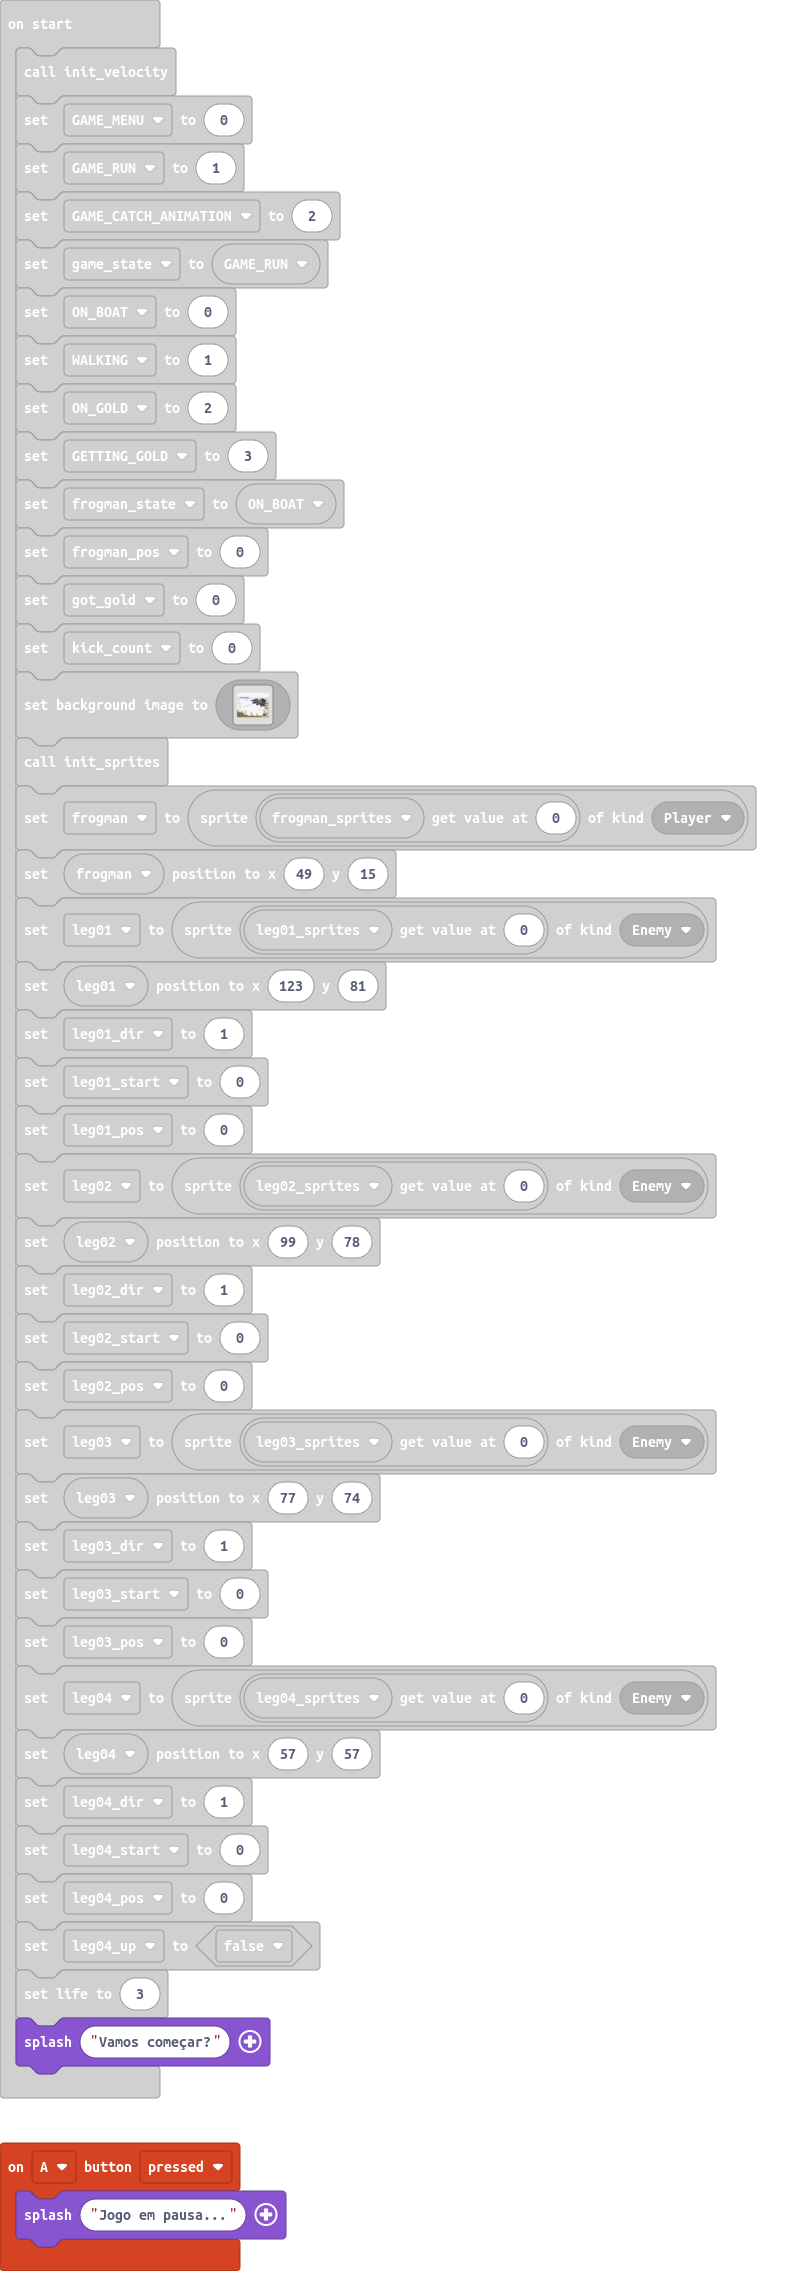
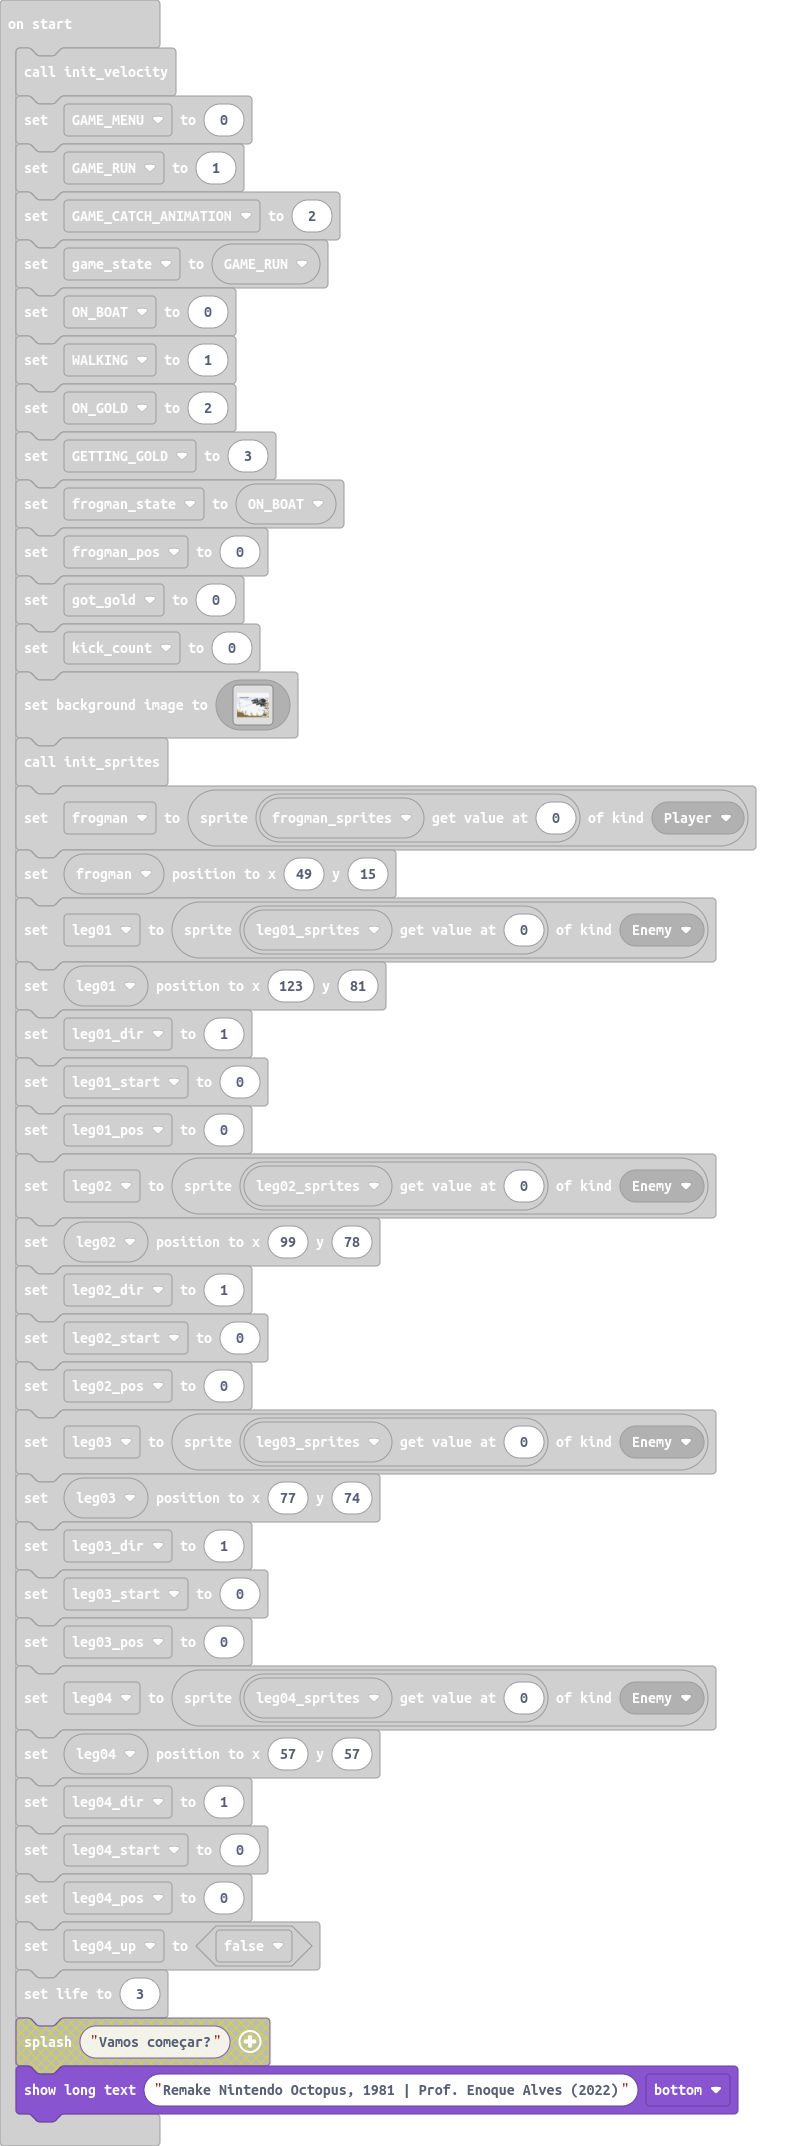
Add credits

Changed region(s): [[0.0, 0.0312, 0.9592, 1.0]]

diff --git a/main.ts b/main.ts
@@ -1358,7 +1358,7 @@ leg04_start = 0
 leg04_pos = 0
 leg04_up = false
 info.setLife(3)
-game.splash("Vamos começar?")
+game.showLongText("Remake Nintendo Octopus, 1981 | Prof. Enoque Alves (2022)", DialogLayout.Bottom)
 game.onUpdateInterval(100, function () {
     if (game_state == GAME_RUN) {
         check_velocity()
